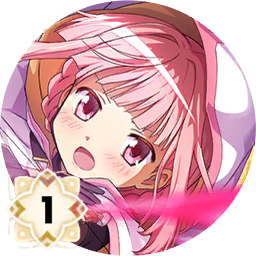
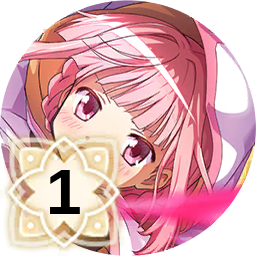
Draw sheet ascension badges like TierList.vue
Number badges are now composed from public/ascension_background.png with
the number in bold black on top, scaled from TierList.vue's 60 px
.ascension-overlay to the 256 px thumbnails, instead of badge images cut
from the sheet. Drops public/sheet/badges/{1,2,4,5}.png; the NEW tag
keeps its template.

Claude-Session: https://claude.ai/code/session_012tEs2KxoFEMBSLDaWh9sUy

Changed region(s): [[0.0, 0.5, 0.5, 1.0]]

diff --git a/scripts/sheet/compose_badges.py b/scripts/sheet/compose_badges.py
@@ -1,36 +1,58 @@
 #!/usr/bin/env python3
-"""Compose kioku thumbnails with a badge: a count ("1", "2", "4", "5", ...) bottom-left, or the "new" tag top-left.
+"""Compose kioku thumbnails with a badge, for =IMAGE() links in the Magia Exedra data sheet.
 
-The Magia Exedra data sheet links images with =IMAGE(url), which takes a single URL, so a
-thumbnail + badge has to exist as one file. This writes, for every combo in badges.json:
+=IMAGE(url) takes a single URL, so thumbnail + badge has to exist as one file. For every combo in
+badges.json this writes public/sheet/kioku/<kioku>_b<badge>.png from
+public/kioku_images/<kioku>_thumbnail.png plus:
 
-    public/sheet/kioku/<kioku>_b<badge>.png  =  public/kioku_images/<kioku>_thumbnail.png
-                                                + public/sheet/badges/<badge>.png at badgePos
-                                                  (or badgePosOverrides[<badge>])
+- a number badge ("1", "2", ...): the ascension badge drawn the same way as TierList.vue's
+  .ascension-overlay (public/ascension_background.png with the number in bold black on top),
+  scaled from its 60 px thumbnail to the 256 px one and kept inside the image;
+- "new": public/sheet/badges/new.png (the game's NEW tag) in the top-left corner.
 
-Badge templates were cut from the sheet's own images (same size/position as in the game UI)
-at the 256 px thumbnail scale. Usage:  python3 scripts/sheet/compose_badges.py
+Usage:  python3 scripts/sheet/compose_badges.py
 """
 import json
 from pathlib import Path
 
-from PIL import Image
+from PIL import Image, ImageDraw, ImageFont
 
 ROOT = Path(__file__).resolve().parents[2]
 PUBLIC = ROOT / "public"
-cfg = json.loads((Path(__file__).with_name("badges.json")).read_text())
+SIZE = 256
+SCALE = SIZE / 60  # TierList.vue: .character-img is 60 px, .ascension-overlay 30 px, number 15 px bold
+BADGE = round(30 * SCALE)
+FONT_PX = round(15 * SCALE)
+FONTS = ["arialbd.ttf", "Arial Bold.ttf", "LiberationSans-Bold.ttf", "DejaVuSans-Bold.ttf"]
+
+
+def bold_font(px):
+    for name in FONTS:
+        try:
+            return ImageFont.truetype(name, px)
+        except OSError:
+            continue
+    return ImageFont.load_default(size=px)
+
+
+cfg = json.loads(Path(__file__).with_name("badges.json").read_text())
 out_dir = PUBLIC / "sheet" / "kioku"
 out_dir.mkdir(parents=True, exist_ok=True)
+asc_bg = Image.open(PUBLIC / "ascension_background.png").convert("RGBA").resize((BADGE, BADGE), Image.LANCZOS)
+new_tag = Image.open(PUBLIC / "sheet" / "badges" / "new.png").convert("RGBA")
+font = bold_font(FONT_PX)
 
-overrides = cfg.get("badgePosOverrides", {})
 for combo in cfg["combos"]:
     kioku, badge = combo["kioku"], combo["badge"]
-    x, y = overrides.get(badge, cfg["badgePos"])
-    base = Image.open(PUBLIC / "kioku_images" / f"{kioku}_thumbnail.png").convert("RGBA")
-    if base.size != (256, 256):
-        base = base.resize((256, 256), Image.LANCZOS)
-    mark = Image.open(PUBLIC / "sheet" / "badges" / f"{badge}.png").convert("RGBA")
-    base.alpha_composite(mark, (x, y))
+    img = Image.open(PUBLIC / "kioku_images" / f"{kioku}_thumbnail.png").convert("RGBA")
+    if img.size != (SIZE, SIZE):
+        img = img.resize((SIZE, SIZE), Image.LANCZOS)
+    if badge == "new":
+        img.alpha_composite(new_tag, (0, 0))
+    else:
+        x, y = 0, SIZE - BADGE  # bottom-left corner
+        img.alpha_composite(asc_bg, (x, y))
+        ImageDraw.Draw(img).text((x + BADGE / 2, y + BADGE / 2), badge, font=font, fill="black", anchor="mm")
     dest = out_dir / f"{kioku}_b{badge}.png"
-    base.save(dest, optimize=True)
+    img.save(dest, optimize=True)
     print(dest.relative_to(ROOT))
